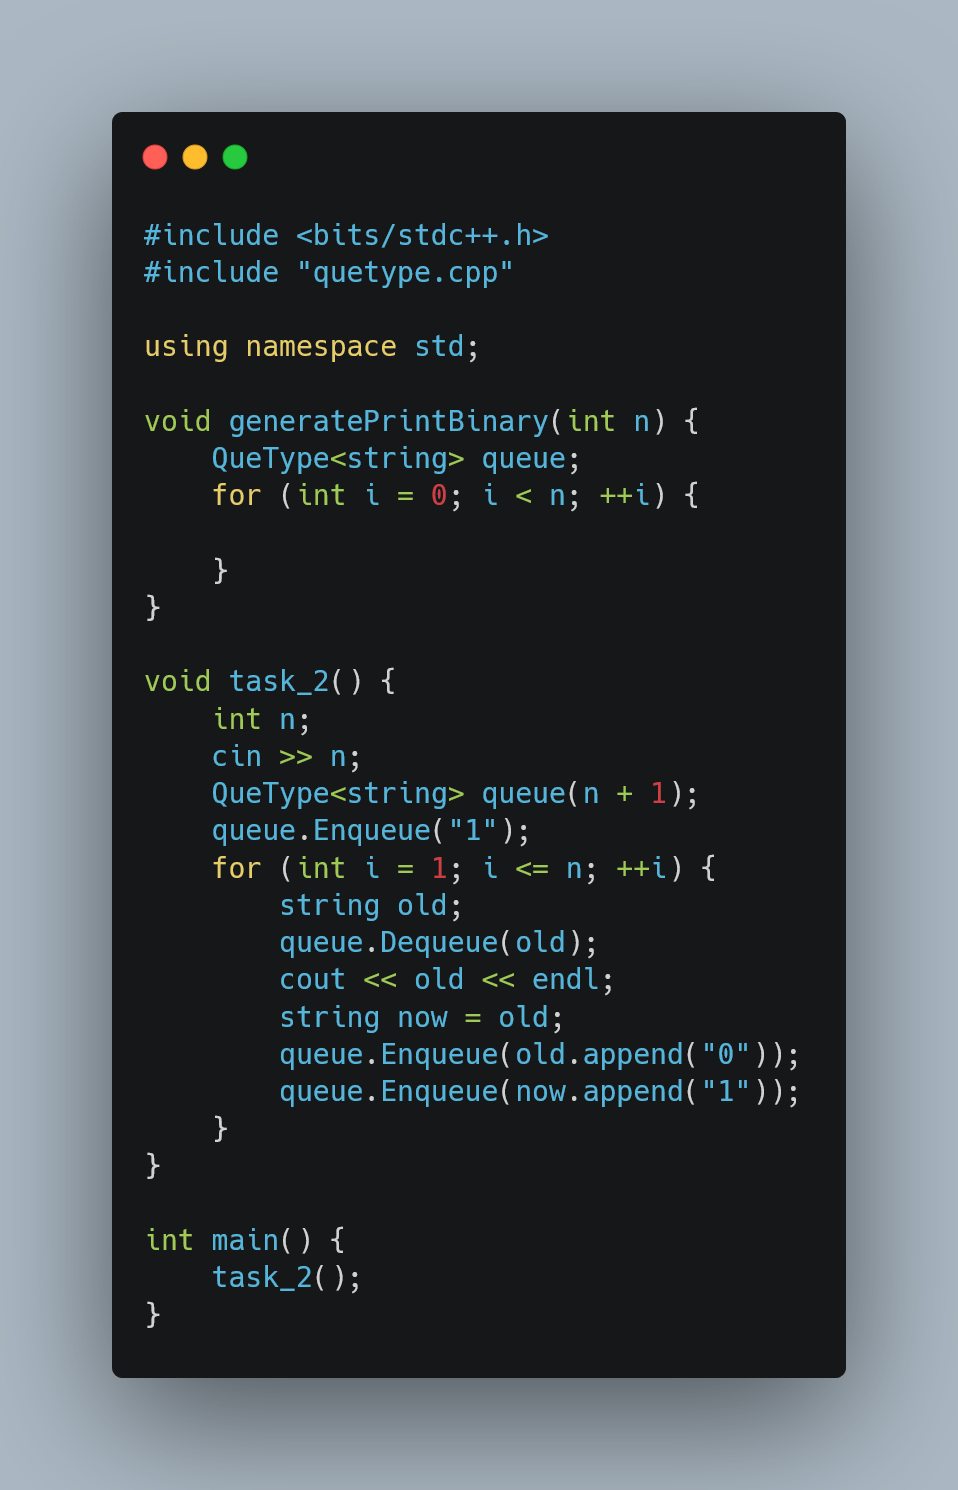
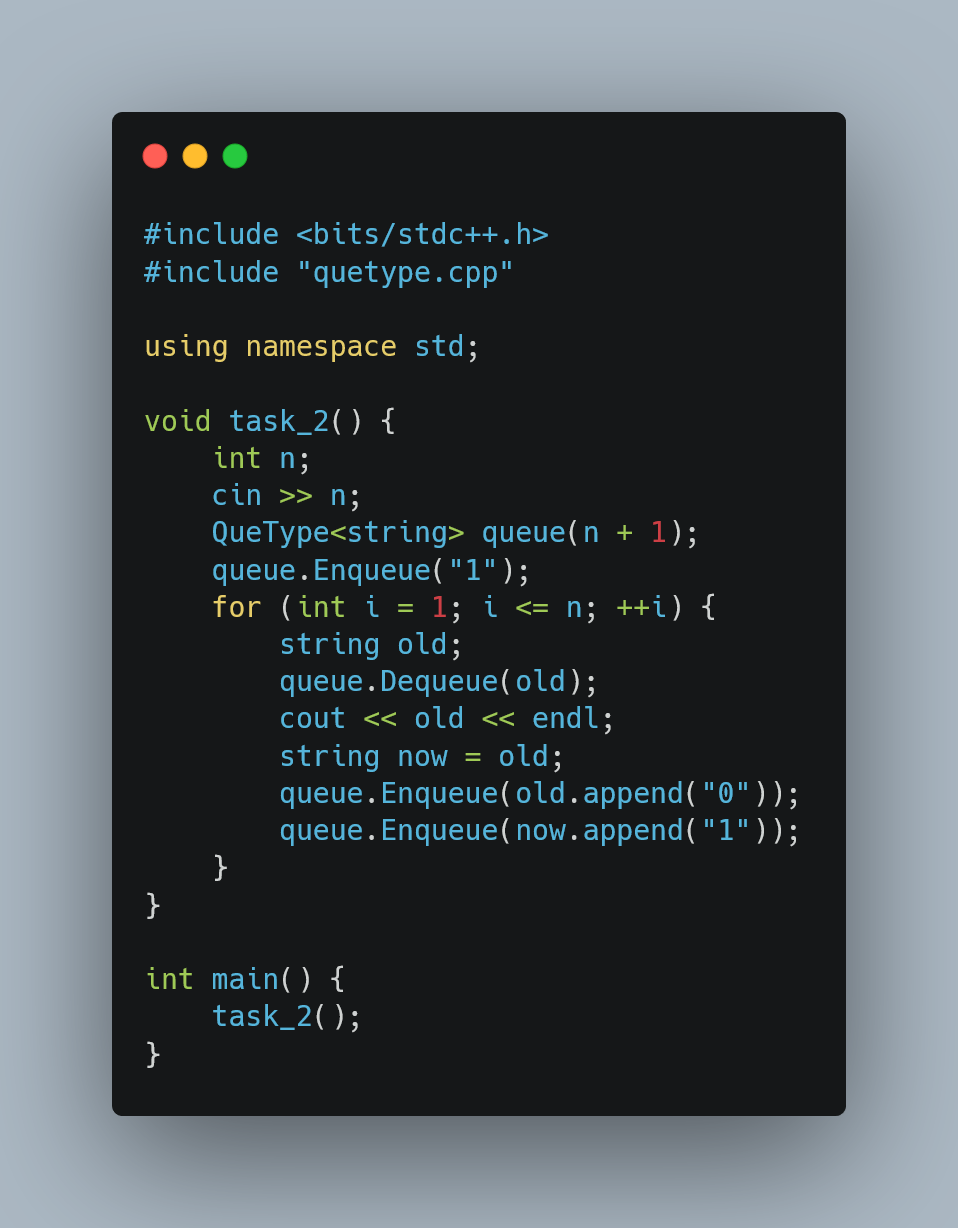
Lab 9

diff --git a/C++/clion/main.cpp b/C++/clion/main.cpp
@@ -96,13 +96,6 @@ void task_1() {
     REMOVE(&queue);
 }
 
-void generatePrintBinary(int n) {
-    QueType<string> queue;
-    for (int i = 0; i < n; ++i) {
-
-    }
-}
-
 void task_2() {
     int n;
     cin >> n;

diff --git a/C++/Lab/Lab_9/Task_2/main.cpp b/C++/Lab/Lab_9/Task_2/main.cpp
@@ -3,13 +3,6 @@
 
 using namespace std;
 
-void generatePrintBinary(int n) {
-    QueType<string> queue;
-    for (int i = 0; i < n; ++i) {
-
-    }
-}
-
 void task_2() {
     int n;
     cin >> n;

diff --git a/C++/Lab/Lab_4/README.md b/C++/Lab/Lab_4/README.md
@@ -12,22 +12,22 @@ Generate the driver file(main.cpp) where you perform the following tasks. Note t
 
 ![Lab 4 Task 2.cpp](https://github.com/IAFahim/CSE225/blob/master/C%2B%2B/Lab/Lab_4/Task_2/main.cpp.png)
 
-**Task 1 2 Header file**
+**Task 1 & 2 Header file**
 
 `#include "unsortedtype.h"`
 
-![Lab 4 Task 1 2 3 header file](https://github.com/IAFahim/CSE225/blob/master/C%2B%2B/Lab/Lab_4/Common/UnsortedType.h.png)
+![Lab 4 Task 1 & 2 header file](https://github.com/IAFahim/CSE225/blob/master/C%2B%2B/Lab/Lab_4/Common/UnsortedType.h.png)
 
 `#include "studentInfo.h"`
 
-![Lab 4 Task 1 2 3 header file](https://github.com/IAFahim/CSE225/blob/master/C%2B%2B/Lab/Lab_4/Common/studentInfo.h.png)
+![Lab 4 Task 1 & 2 header file](https://github.com/IAFahim/CSE225/blob/master/C%2B%2B/Lab/Lab_4/Common/studentInfo.h.png)
 
-**Task 1 2 Cpp file**
+**Task 1 & 2 Cpp file**
 
 `unsortedtype.cpp`
 
-![Lab 4 Task 1 2 3 header file](https://github.com/IAFahim/CSE225/blob/master/C%2B%2B/Lab/Lab_4/Common/UnsortedType.cpp.png)
+![Lab 4 Task 1 & 2 header file](https://github.com/IAFahim/CSE225/blob/master/C%2B%2B/Lab/Lab_4/Common/UnsortedType.cpp.png)
 
 `studentInfo.cpp`
 
-![Lab 4 Task 1 2 3 header file](https://github.com/IAFahim/CSE225/blob/master/C%2B%2B/Lab/Lab_4/Common/studentInfo.cpp.png)
+![Lab 4 Task 1 & 2 header file](https://github.com/IAFahim/CSE225/blob/master/C%2B%2B/Lab/Lab_4/Common/studentInfo.cpp.png)

diff --git a/C++/Lab/Lab_2/README.md b/C++/Lab/Lab_2/README.md
@@ -24,12 +24,12 @@ which you will take as input from user in the main function.
 
 ![Lab 2 Task 3.cpp](https://github.com/IAFahim/CSE225/blob/master/C%2B%2B/Lab/Lab_2/Task_3/main.png)
 
-**Task 1 2 3 Header file** 
+**Task 1, 2 & 3 Header file** 
 `#include "dynarr.h"`
 
 ![Lab 2 Task 1 2 3 header file](https://github.com/IAFahim/CSE225/blob/master/C%2B%2B/Lab/Lab_2/Common/dynarr.h.png)
 
-**Task 1 2 3 Cpp file**
+**Task 1, 2 & 3 Cpp file**
 `dynarr.cpp`
 
 ![Lab 2 Task 1 2 3 header file](https://github.com/IAFahim/CSE225/blob/master/C%2B%2B/Lab/Lab_2/Common/dynarr.cpp.png)
